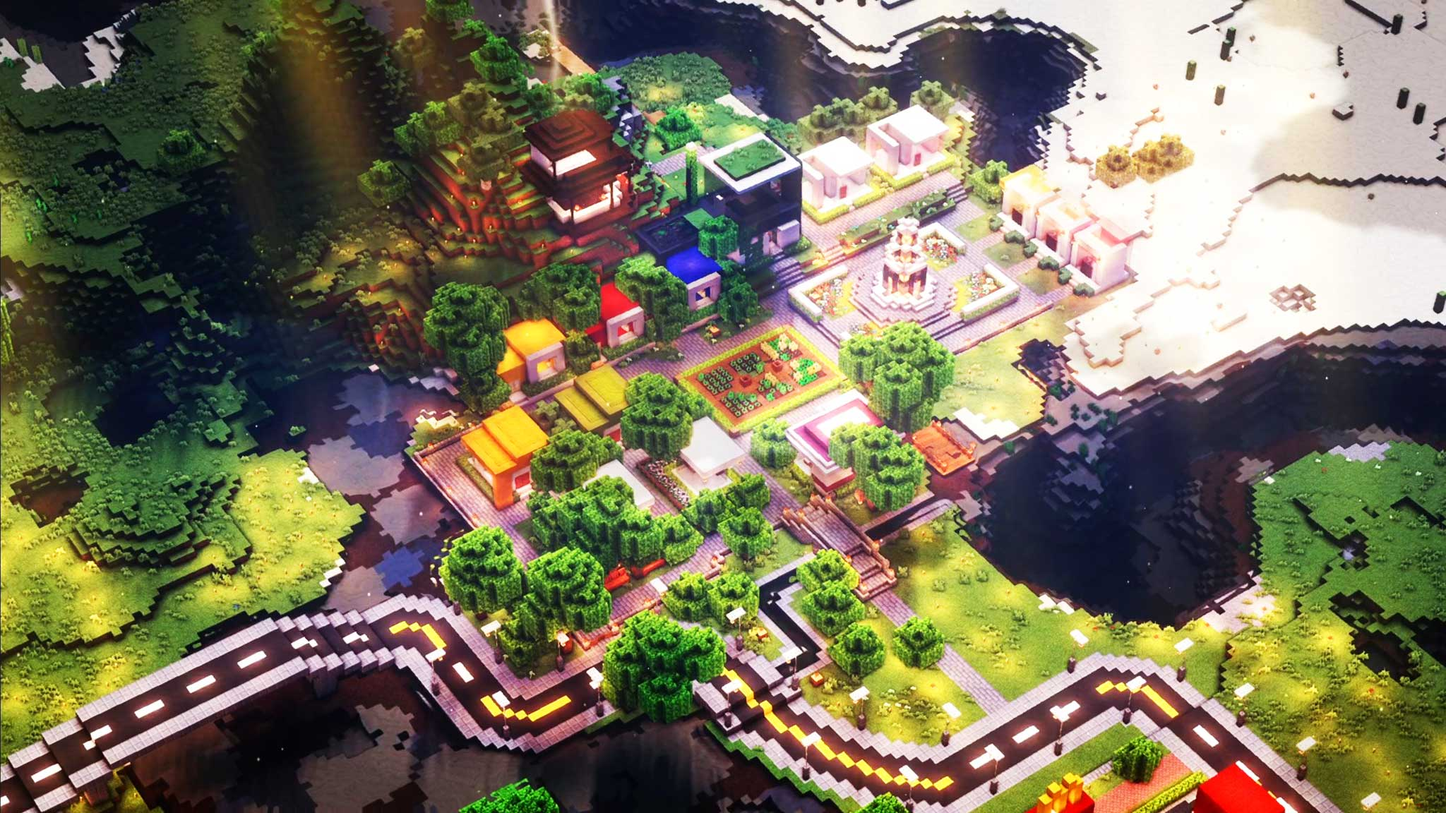
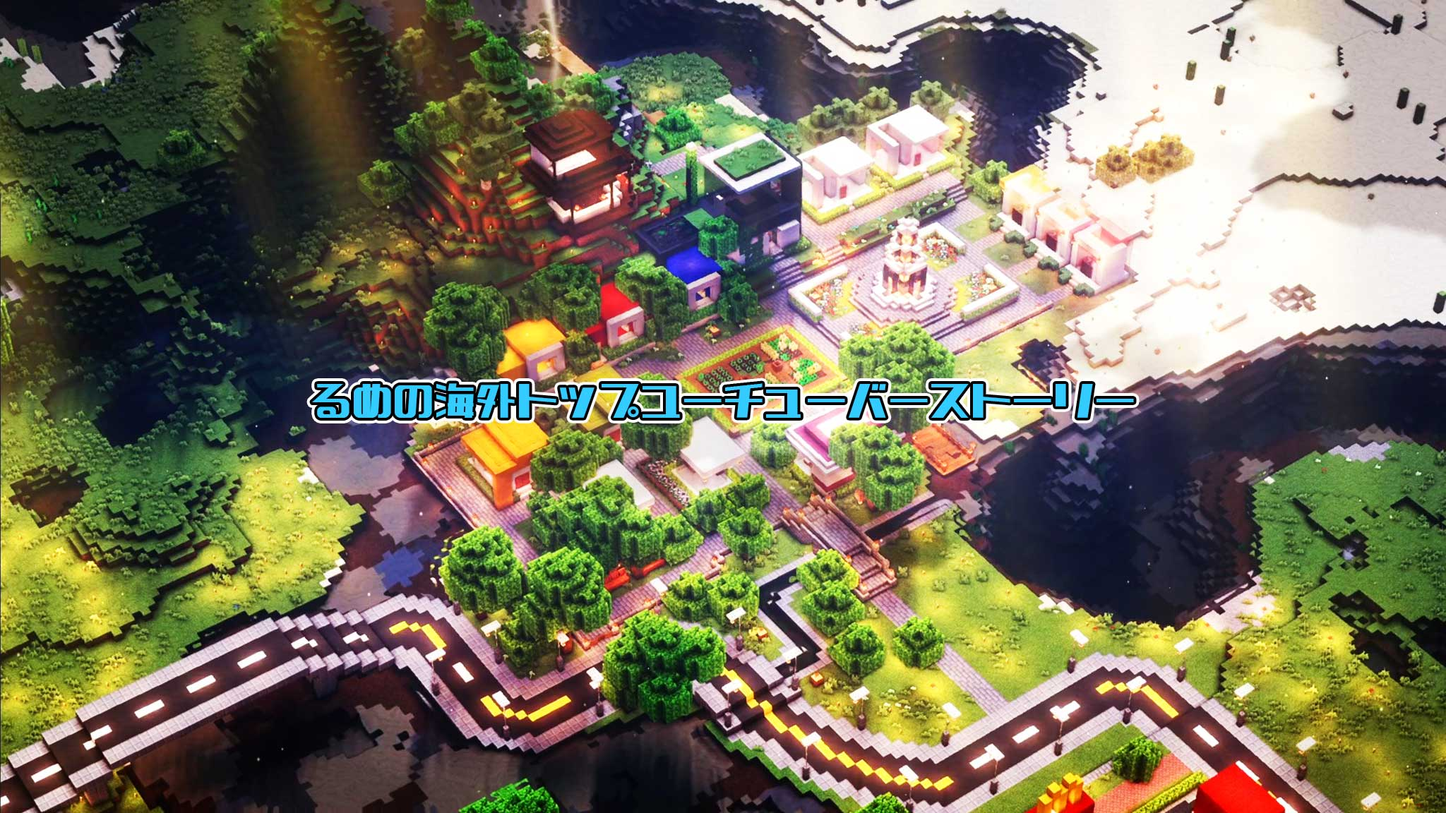
change 01

Changed region(s): [[0.1875, 0.4375, 0.8125, 0.5312]]

diff --git a/index.html b/index.html
@@ -1,5 +1,5 @@
 <!DOCTYPE html>
-<html lang="en">
+<html lang="ja">
     <head>
         <meta charset="utf-8" />
         <meta name="viewport" content="width=device-width, initial-scale=1, shrink-to-fit=no" />
@@ -33,9 +33,9 @@
         <header class="masthead text-center text-white">
             <div class="masthead-content">
                 <div class="container px-5">
-                    <h1 class="masthead-heading mb-0">るめの海外トップユーチューバーストーリー</h1>
-                    <h2 class="masthead-subheading mb-0">Will Rock Your Socks Off</h2>
-                    <a class="btn btn-primary btn-xl rounded-pill mt-5" href="#scroll">Learn More</a>
+                    <h1 class="masthead-heading mb-0"></h1>
+                    <h2 class="masthead-subheading mb-0">&nbsp;&nbsp;&nbsp;&nbsp;</h2>
+                    <a class="btn btn-primary btn-xl rounded-pill mt-5" href="#scroll">公認リアクター様</a>
                 </div>
             </div>
             <div class="bg-circle-1 bg-circle"></div>
